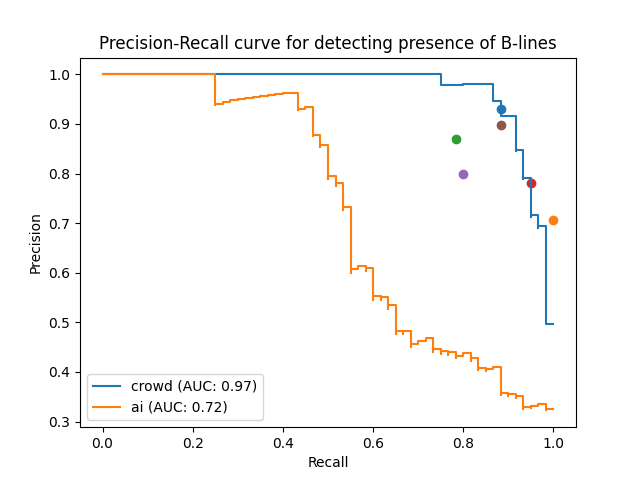
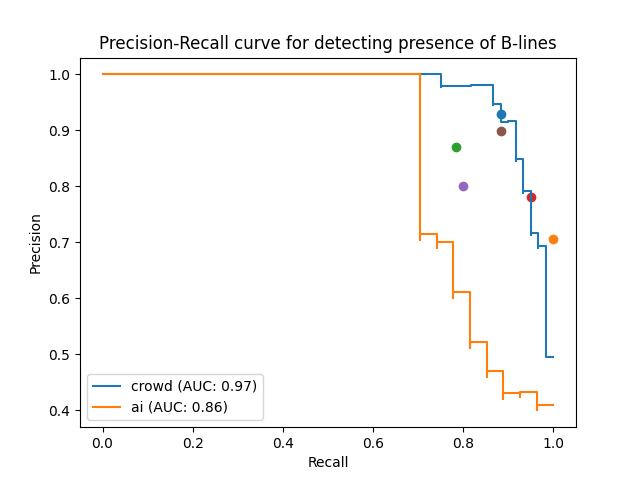
improved pr curves with ai aggregate score

diff --git a/results/precision_recall_all.py b/results/precision_recall_all.py
@@ -17,6 +17,10 @@ df_pseudo = pd.read_excel('C:/Users/ellen/Documents/code/B-line_detection/BEDLUS
 # get rid of duplicate cases and clips
 df_pseudo = df_pseudo.drop_duplicates(subset=['Case', 'Clip'])
 
+xls = pd.ExcelFile('C:/Users/ellen/Documents/code/B-line_detection/BEDLUS-Data/trained_networks/results/0201_pseudo-labels_/results_0.9200_max_test/individual_clip_results.xlsx')
+df2_pseudo = pd.read_excel(xls, 'clip_results')
+df2_pseudo = df2_pseudo.drop_duplicates(subset=['case', 'clip'])
+
 # get labels for each group
 y_labels = df['gs_label_train'].values.tolist()
 y_hat_crowd = df['chosen_answer'].values.tolist()
@@ -58,16 +62,23 @@ for i in range(len(y_hat_expert)):
 
 # --------------------- Predictions for AI ---------------------
 
-y_hat_ai_probs = [] # df_pseudo['pred'].values.tolist()
-
+# 1. single clip predictions
 # get first value of first prediction in each row
-for i in range(len(df_pseudo)):
-    # turn to list
-    pred_list = ast.literal_eval(df_pseudo.iloc[i]['pred'])
-    pred = pred_list[0][1]
-    y_hat_ai_probs.append(pred)
 
-y_ai_labels = df_pseudo['label'].values.tolist()
+# y_hat_ai_probs = []
+
+# for i in range(len(df_pseudo)):
+#     # turn to list
+#     pred_list = ast.literal_eval(df_pseudo.iloc[i]['pred'])
+#     pred = pred_list[0][1]
+#     y_hat_ai_probs.append(pred)
+
+# y_ai_labels = df_pseudo['label'].values.tolist()
+
+# 2. aggregate clip predictions
+
+y_hat_ai_probs = df2_pseudo['agg_prediction'].values.tolist()
+y_ai_labels = df2_pseudo['label'].values.tolist()
 
 # --------------------- PR curves ---------------------
 
@@ -111,8 +122,8 @@ for i in range(6):
     # disp = PrecisionRecallDisplay(precision=precision, recall=recall)
     # disp.plot(ax=plt.gca(), name=f"expert {i+1} (AP: {average_precision_score(y_labels, y_hat_expert_probs[i]):.2f})")
 
-print(y_ai_labels)
-print(y_hat_ai_probs)
+# print(y_ai_labels)
+# print(y_hat_ai_probs)
 
 precision2, recall2, _ = precision_recall_curve(y_ai_labels, y_hat_ai_probs)
 auc_ai = auc(recall2, precision2)
